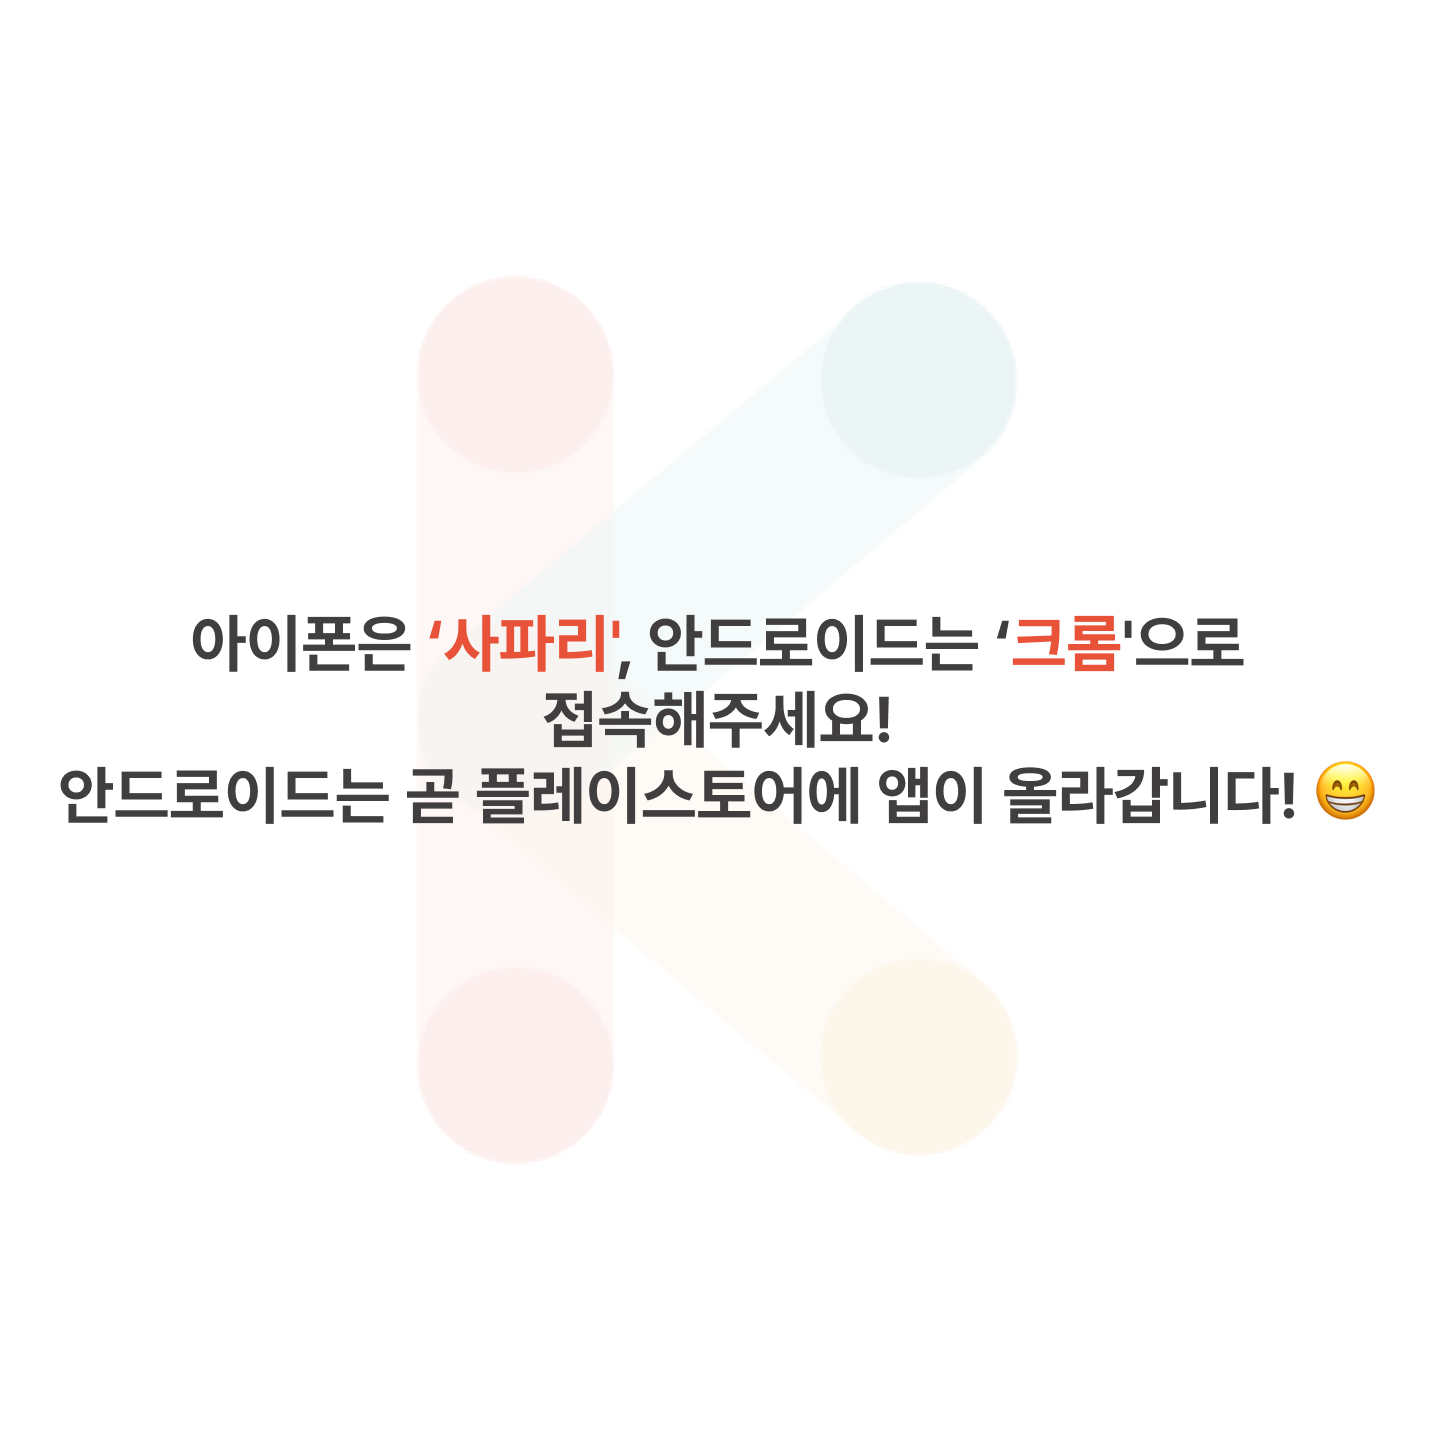
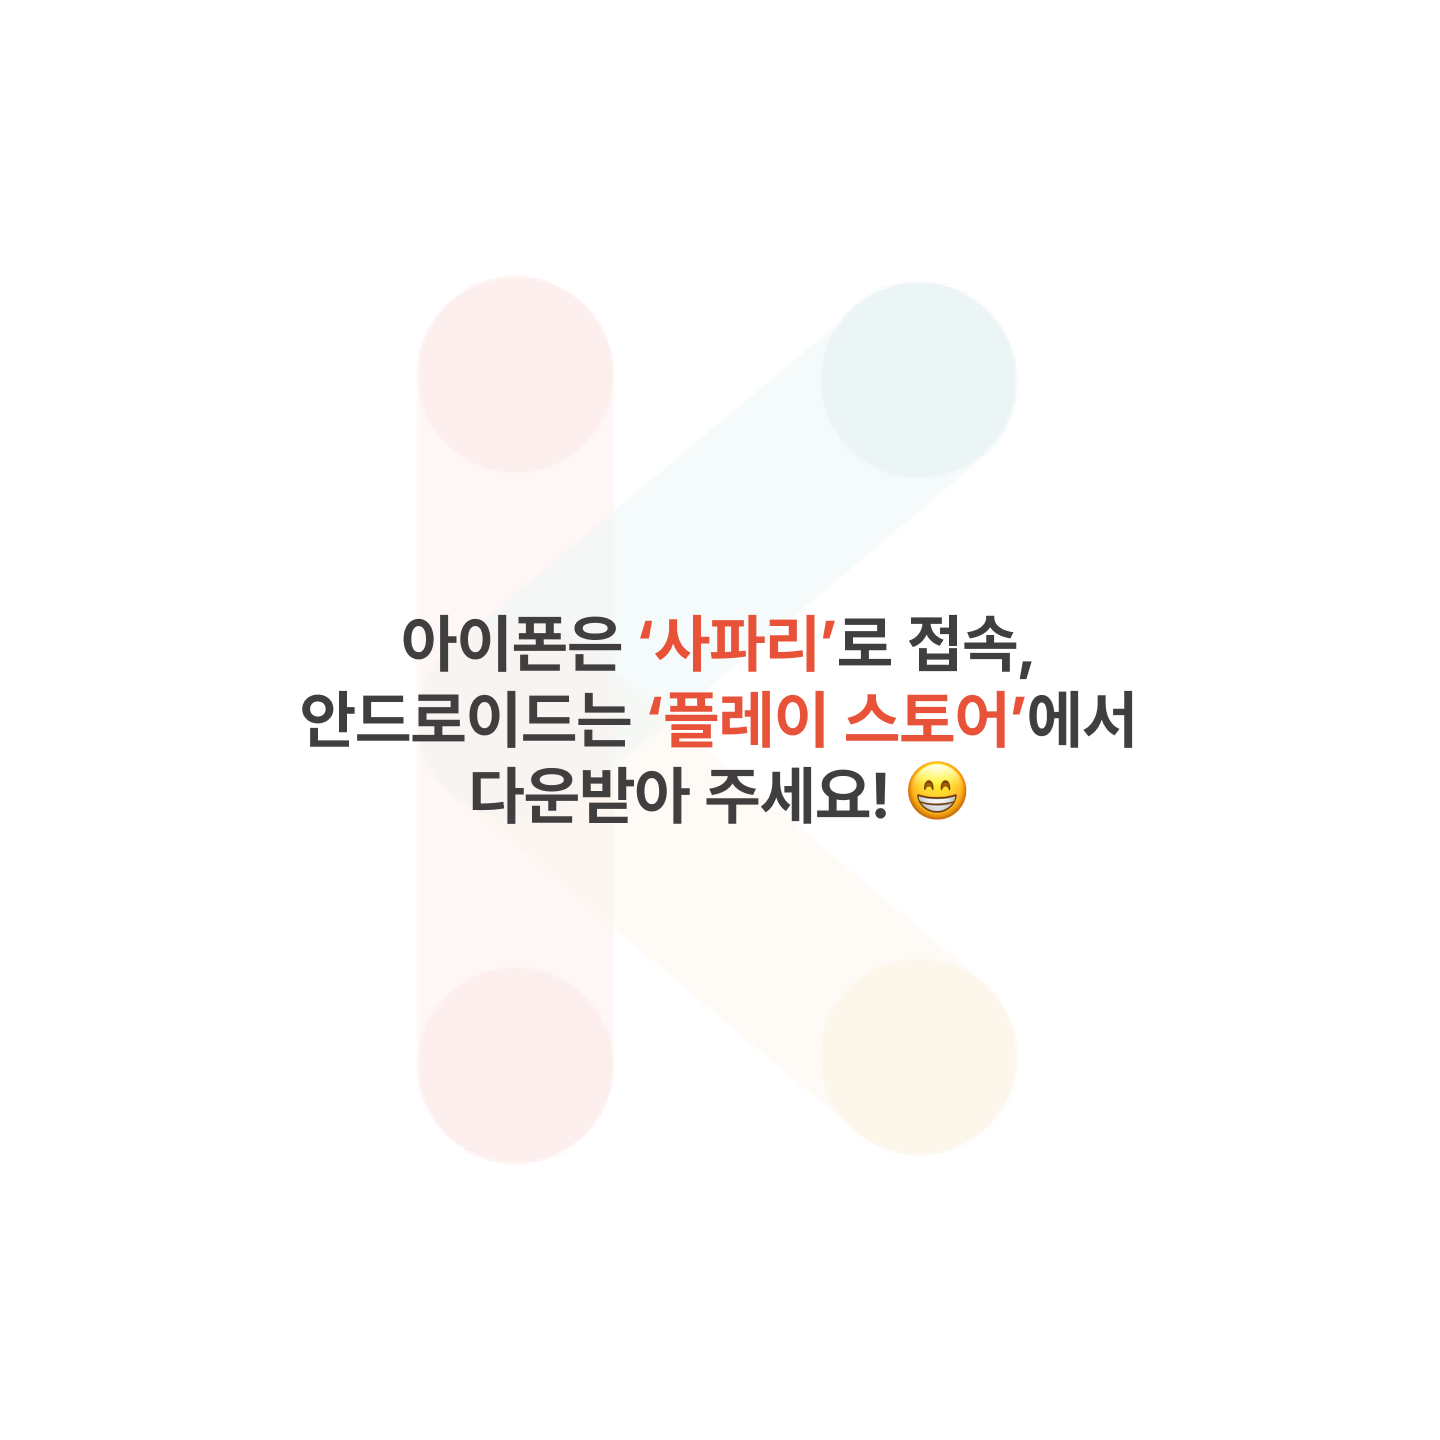
feat: 메인 헤더 메시지 서버에서 받아오기

Changed region(s): [[0.0312, 0.4062, 0.9688, 0.5938]]

diff --git a/like-knu/src/App.js b/like-knu/src/App.js
@@ -35,7 +35,7 @@ function App() {
   // PWA로 설치되지 않은 상태
   const isAndroid = /Android/.test(navigator.userAgent);
   const isiOS = /(iPhone|iPad|iPod)/.test(navigator.userAgent);
-  /*if (isiOS && !window.matchMedia("(display-mode: standalone)").matches) {
+  if (isiOS && !window.matchMedia("(display-mode: standalone)").matches) {
     return (
       <>
         <Image src={IosImage} alt={"뭘봐"} />
@@ -47,7 +47,7 @@ function App() {
         <Image src={OtherImage} alt={"뭘봐"} />
       </>
     );
-  }*/
+  }
   initializeDevice();
   RouteChangeTracker();
   return (

diff --git a/like-knu/src/api/main.js b/like-knu/src/api/main.js
@@ -1,7 +1,6 @@
-import instance from './api';
-import { extractBodyFromResponse } from './apiUtility';
-
-const baseURL = '/api/main';
+import instance from "./api";
+import { extractBodyFromResponse } from "./apiUtility";
+const baseURL = "/api/main";
 
 export const noticeMain = async (campus) => {
   const { data } = await instance.get(`${baseURL}/announcements`, {

diff --git a/like-knu/src/components/main/MainHeader.jsx b/like-knu/src/components/main/MainHeader.jsx
@@ -14,6 +14,7 @@ export default function MainHeader({ setSelectCampus }) {
   const [view, setView] = useState(false);
   const navigate = useNavigate();
   const [message, setMessage] = useState('');
+
   useEffect(async () => {
     const message = await mainHeaderMessage();
     setMessage(message);
